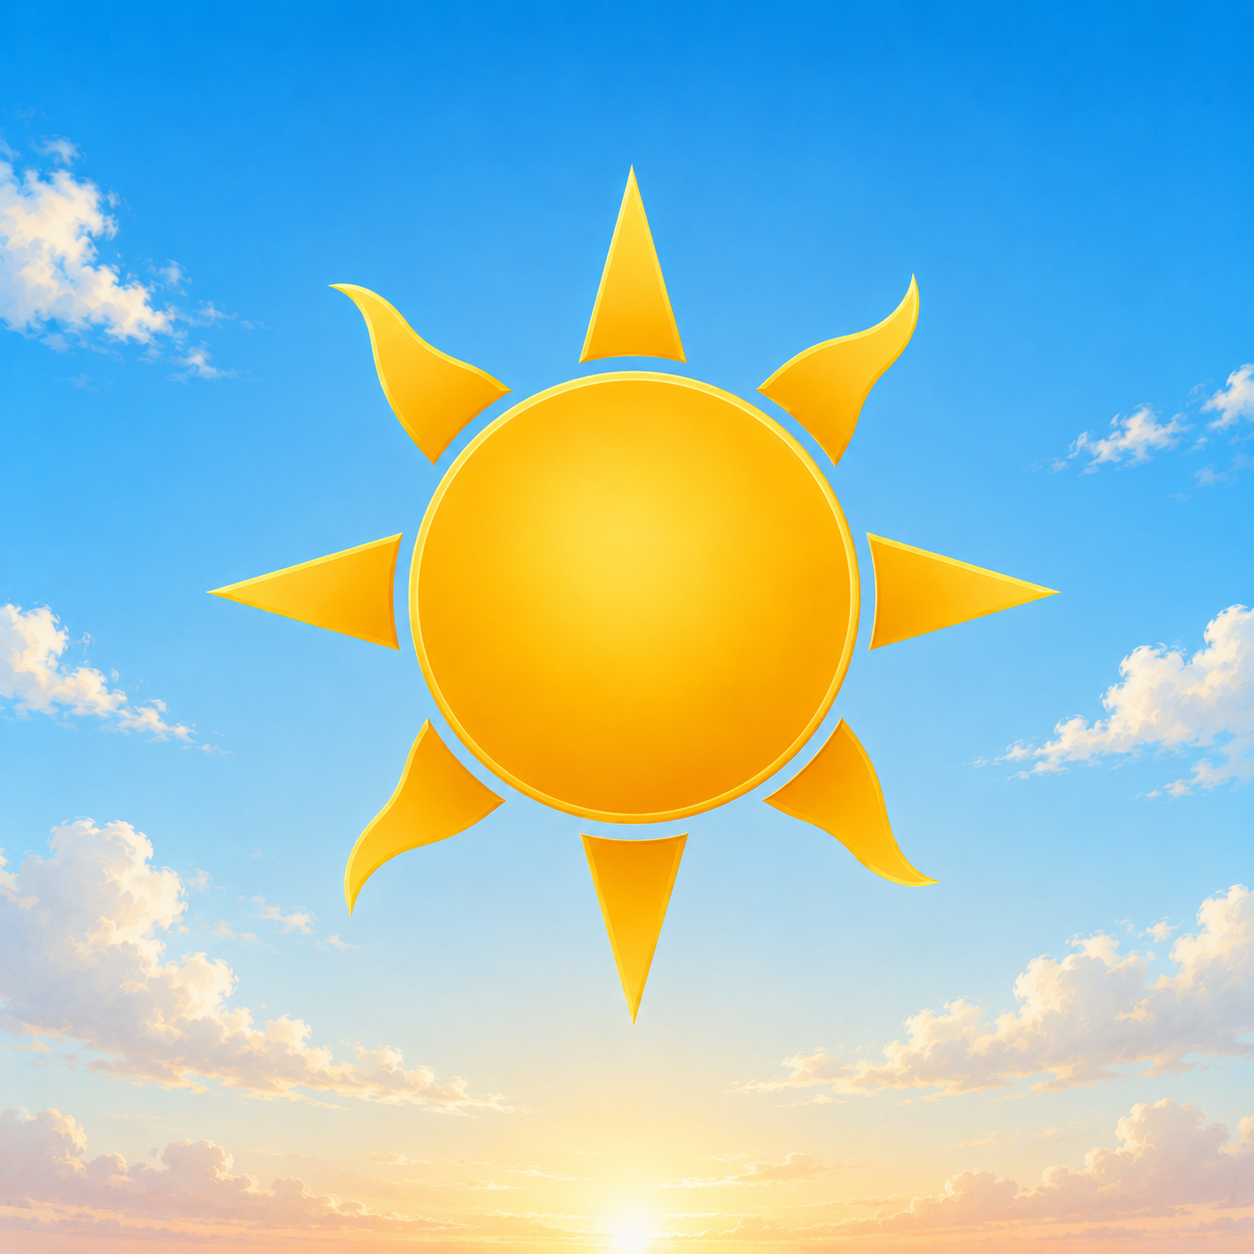
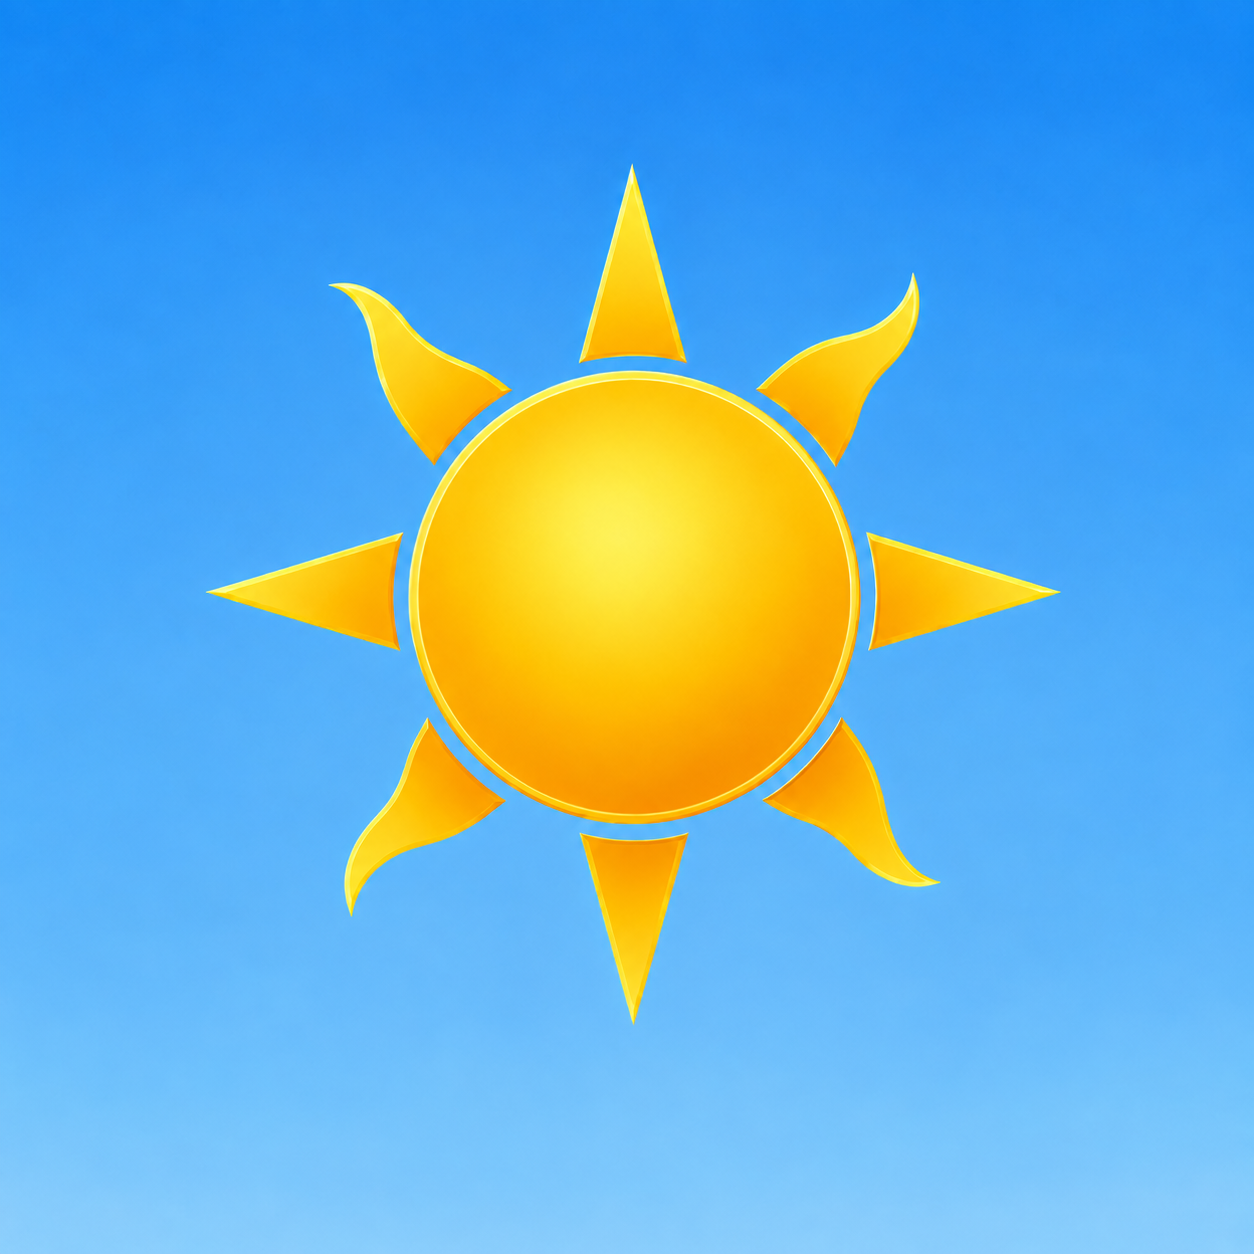
Update 28 September 2026 - New Jigoku Eps 1

diff --git a/series/jigoku-wa-zeni-de-dekiteiru.html b/series/jigoku-wa-zeni-de-dekiteiru.html
@@ -1,0 +1,115 @@
+ <!DOCTYPE html>
+<html lang="id">
+<head>
+    <meta charset="UTF-8">
+    <meta name="viewport" content="width=device-width, initial-scale=1.0">
+    <title>Jigoku wa Zen'i de Dekiteiru (2026) Subtitle Indonesia - Ashame</title>
+    <link rel="icon" type="image/x-icon" href="../img/favicon.ico">
+    
+    <link rel="stylesheet" href="../css/styles.css">
+    <link rel="stylesheet" href="../css/styles_sub.css">
+    <link rel="stylesheet" href="../css/styles_sub2.css">
+    <style>
+    body {
+        padding-bottom: 10px;
+    }
+    </style>
+
+</head>
+<body>
+
+    <div id="header"></div>
+    <script src="/header/header.js"></script>
+
+    <main class="movie-container">
+        
+        <div class="movie-header">
+            <h1>Jigoku wa Zen'i de Dekiteiru (2026)</h1>
+            <p>地獄は善意で出来ている</p>
+        </div>
+
+        <div class="movie-content">
+            <img src="../img/jigoku-wa-zeni.png" alt="jigoku-wa-zeni" class="movie-poster">
+            
+            <div class="movie-desc">
+              
+                <p>
+                   Sebuah "Program Dukungan Khusus Mantan Narapidana" mempertemukan orang-orang yang memiliki catatan kriminal. Mereka yang berhasil lolos dijanjikan bantuan penuh untuk kembali berintegrasi ke dalam masyarakat. Para peserta yang memandang ini sebagai kesempatan untuk mengubah hidup mereka pun memulai kehidupan bersama selama satu bulan di sebuah fasilitas tertentu.
+                </p>
+                <p>
+                   "Ayo kita bekerja sama agar bisa lulus!" Mereka mengikrarkan tekad tersebut, hari-hari mereka pun dimulai dengan penuh harapan.
+                </p>
+                <p>
+                    Namun, apakah program rehabilitasi yang dirancang untuk membantu mereka memulai hidup baru ini benar-benar jalan menuju keselamatan atau justru awal dari neraka yang sesungguhnya?
+                </p>
+                <p>
+                    Sebuah drama ketegangan manusiawi yang memikat, menggambarkan jebakan kejam yang terbentang di hadapan mereka serta nasib yang menanti.
+                </p>
+                
+            </div>
+        </div>
+           
+        <div class="media-section-series">
+            <a href="https://mydramalist.com/801294-jigoku-wa-zeni-de-dekite-iru" target="_blank" rel="noopener" title="MyDramaList">
+                <button class="button-info"> Detail Info</button>
+            </a>
+            <h3 class="section-label">Download</h3>
+            
+        
+           <div class="button-series">
+            <a href="https://sfl.gl/H9rK9B4" target="_blank" rel="noopener">
+                <button class="btn-download-series">01</button>
+            </a>
+        
+            </div>
+             <a href="https://trakteer.id/ashame" target="_blank" rel="noopener">
+                <button class="btn-download-trakteer">Support Trakteer</button>
+            </a>
+
+        </div>
+        
+
+    </main>
+
+    <!-- Setting Komentar -->
+<div id="cusdis_thread"
+  data-host="https://cusdis.com"
+  data-app-id="07dcecc9-8ea6-476c-8d3f-9938cdf2ede1"
+  data-page-id="jigoku-wa-zeni"
+  data-page-url="https://ashamefansub.github.io/series/jigoku-wa-zeni-de-dekiteiru.html"
+  data-page-title="Jigoku wa Zen;i de Dekiteiru"
+  data-theme="auto">
+  </div>   
+  
+  <!-- Setting Warna Teks Komentar -->
+  <script>
+window.addEventListener("load", function () {
+  const iframe = document.querySelector("#cusdis_thread iframe");
+  if (!iframe) return;
+  const style = document.createElement("style");
+  style.innerHTML = `
+    body, label, span, p, a, button {
+      color: #black !important;
+    }
+    textarea, input {
+      color: #ffff !important;
+      background: transparent !important;
+    }
+      button {
+      color: #000000 !important;
+      background: #e0e0e0 !important;
+    }
+  `;
+  iframe.contentWindow.document.head.appendChild(style);
+});
+</script>
+
+<script async defer src="https://cusdis.com/js/cusdis.es.js"></script>
+
+<script src="/js/henshin-tema.js"></script>
+
+<div id="footer"></div>
+   <script src="/footer/footer.js"></script>
+
+</body>
+</html>

diff --git a/series/index.html b/series/index.html
@@ -70,6 +70,16 @@
         </article>
 
         <article class="card" title="On Going">
+            <a href="/series/jigoku-wa-zeni-de-dekiteiru.html">
+                <img src="../img/jigoku-wa-zeni.png" alt="jigoku-wa-zeni" loading="lazy">
+                <span class="tag">Series</span>
+                <div class="card-title">
+                    Jigoku wa Zen'i de Dekiteiru (2026)
+                </div>
+            </a>
+        </article>
+
+        <article class="card" title="On Going">
             <a href="../series/strange-ito-junji-no-yoru-mo-nemurenu-kimyou-na-hanashi.html">
                 <img src="../img/strange-ito-junji.jpg" alt="strange-ito-junji" loading="lazy">
                 <span class="tag">Series</span>

diff --git a/index.html b/index.html
@@ -19,6 +19,15 @@
     
     <div class="kotak-konten">
 
+         <article class="card" title="On Going">
+            <a href="/series/jigoku-wa-zeni-de-dekiteiru.html">
+                <img src="../img/jigoku-wa-zeni.png" alt="jigoku-wa-zeni" loading="lazy">
+                <span class="tag">Series</span>
+                <div class="card-title">
+                    Jigoku wa Zen'i de Dekiteiru (2026)
+                </div>
+            </a>
+        </article>
         <article class="card">
             <a href="film/mission-kageki.html">
                 <img src="img/mission.jpeg" alt="Mission kageki" loading="lazy">
